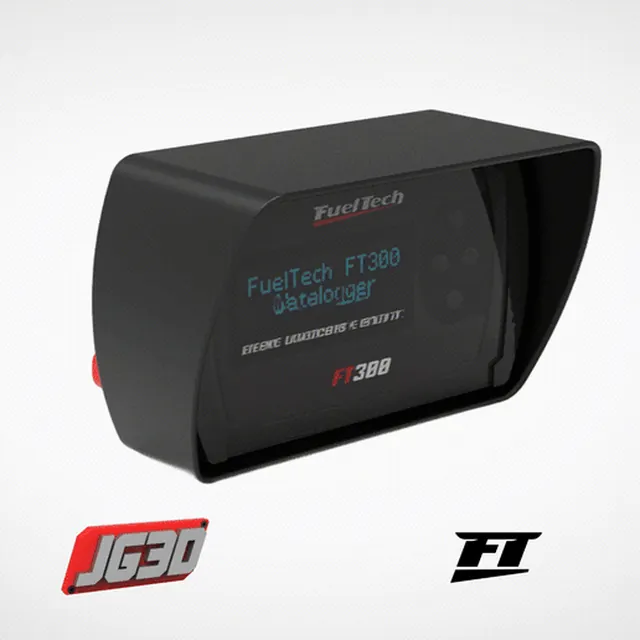
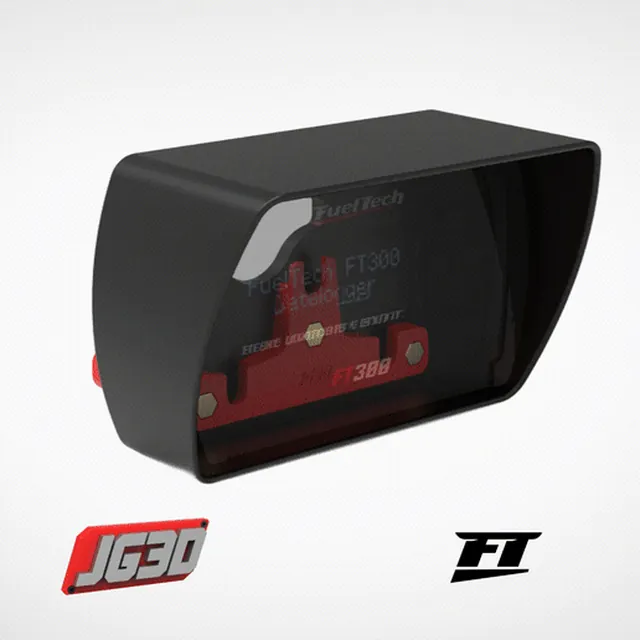
Fix black covers for GIF-only products
Two products whose Cults3D gallery is a single animated GIF got a black
cover: the GIFs fade in from black and build.py took frame 1. Covers
from GIFs now use the frame whose brightness sits at the median of the
animation (the stable plateau), never a fade or flash. Regenerated the
5 GIF-sourced covers.

Changed region(s): [[0.3125, 0.2812, 0.8125, 0.75], [0.6875, 0.625, 0.75, 0.6562]]

diff --git a/catalog/build.py b/catalog/build.py
@@ -16,7 +16,7 @@ Correr cada vez que Joaco publica modelos nuevos; commitear img/ + data.js.
 """
 import json, os, sys, unicodedata
 from collections import Counter
-from PIL import Image, ImageSequence, ImageFilter, ImageEnhance
+from PIL import Image, ImageSequence, ImageFilter, ImageEnhance, ImageStat
 
 def non_latin(s):
     """Detecta alfabetos no latinos (cirílico, CJK, etc.). Cults3D a veces sirve el
@@ -71,6 +71,21 @@ def typ_of(t):
         return 'PANELES · CONSOLAS'
     return 'SOPORTES'
 
+def best_gif_frame(im):
+    """Frame representativo de un GIF: varios arrancan con fade desde negro, así que
+    el frame 1 puede salir vacío y hay caídas entre escenas. Se toma el frame cuyo
+    brillo queda más cerca de la mediana de brillos (cae en la meseta estable de la
+    animación, nunca en un fade ni en un flash)."""
+    frames = []
+    for i, fr in enumerate(ImageSequence.Iterator(im)):
+        rgba = fr.convert('RGBA')
+        probe = rgba.convert('L').resize((32, 32))
+        frames.append((i, ImageStat.Stat(probe).mean[0], rgba))
+    ok = [f for f in frames if 25 <= f[1] <= 235] or frames
+    med = sorted(f[1] for f in ok)[len(ok) // 2]
+    pick = min(ok, key=lambda f: abs(f[1] - med))
+    return pick[2]
+
 def to_square(im, size):
     """Portada cuadrada sin barras negras: las casi-cuadradas se recortan al centro;
     las anchas/verticales se apoyan sobre un fondo de la misma foto difuminada y
@@ -118,7 +133,7 @@ def main():
         if srcimg:
             im = Image.open(srcimg)
             if srcimg.lower().endswith('.gif'):
-                im = next(ImageSequence.Iterator(im)).convert('RGBA')
+                im = best_gif_frame(im)
             else:
                 im = im.convert('RGBA')
             base = Image.new('RGBA', im.size, (21, 23, 25, 255))  # --img-dark
